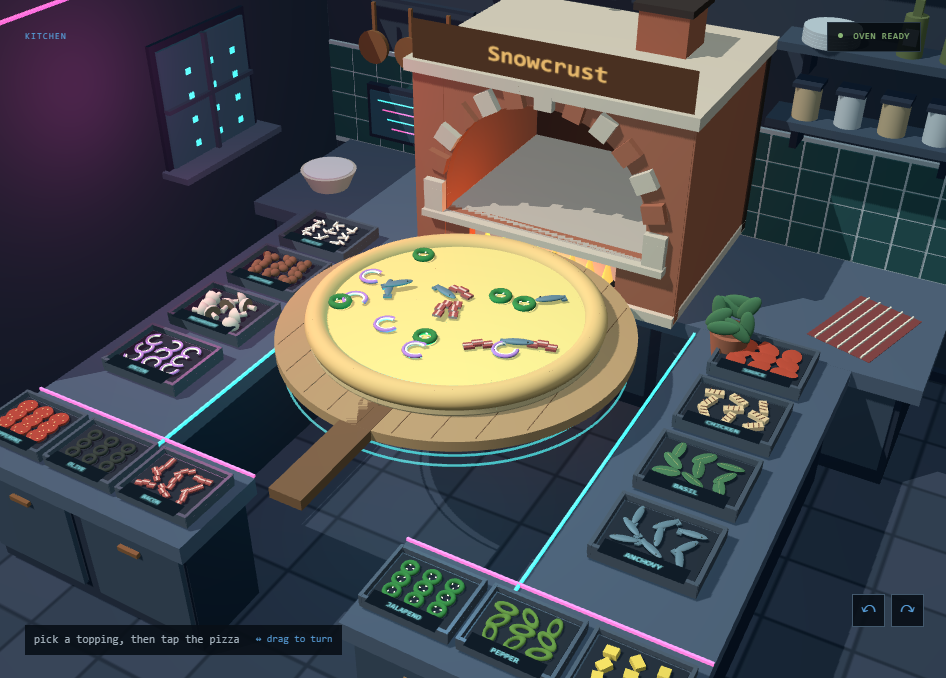
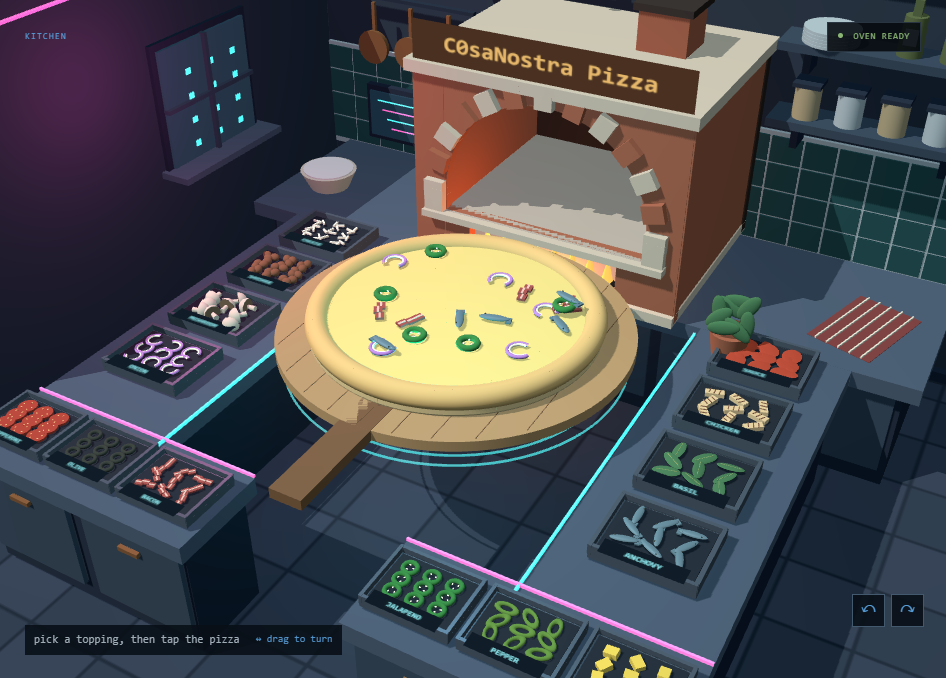
use the franchise name

Changed region(s): [[0.3372, 0.3407, 0.6438, 0.5575], [0.4598, 0.031, 0.7051, 0.1549]]

diff --git a/orders.js b/orders.js
@@ -40,7 +40,7 @@ export const customers = [
     job: 'private road signal tech',
     neighborhood: 'Valley burbclave perimeter',
     pizza: 'Perimeter heat',
-    call: 'Snowcrust. Signal cabinet nine. Bacon, red onion and jalapeños. The light is stuck on red. Your kourier can use the service lane.',
+    call: 'C0saNostra. Signal cabinet nine. Bacon, red onion and jalapeños. The light is stuck on red. Your kourier can use the service lane.',
     toppings: { bacon: 5, onion: 5, jalapeno: 5 }
   },
   {
